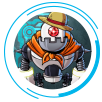
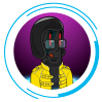
change collection images

diff --git a/src/views/LandingPage.js b/src/views/LandingPage.js
@@ -122,10 +122,10 @@ const LandingPage = () => {
         <Layout className="landing-page min-w-minMobileWidth">
             <Header className="bg-transparent z-30">
                 <Row className="h-full">
-                    <Col xs={20}></Col>
+                    <Col xs={18}></Col>
                     <Col
                         xs={24}
-                        md={4}
+                        md={6}
                         className="flex justify-center md:justify-end items-center"
                     >
                         <Button
@@ -165,6 +165,20 @@ const LandingPage = () => {
                                 color="#1BC09B"
                             />
                         </Button>
+                        <div>
+
+                        <button
+                            className="text-white text-2xl border border-white px-3 py-1 rounded-lg"
+                            onClick={() =>
+                                windowOpen(
+                                    'https://twitter.com/TheWanderersNFT'
+                                )
+                            }
+                            // type="dasheds"
+                        >
+                            White Paper
+                        </button>
+                        </div>
                     </Col>
                 </Row>
             </Header>
@@ -346,8 +360,8 @@ const LandingPage = () => {
                                         <img
                                             className="w-auto h-full object-contain overflow-hidden mx-auto relative"
                                             style={{ bottom: '-3px' }}
-                                            src={utilitiesImages.nft}
-                                            alt={utilitiesImages.nft}
+                                            src={utilitiesImages.nft1wb}
+                                            alt={utilitiesImages.nft1wb}
                                         />
                                     </div>
                                 </div>
@@ -937,7 +951,7 @@ const LandingPage = () => {
                                     </div>
                                     <div>
                                         <Article
-                                            header="Amelie Miller"
+                                            header="Riot Mei"
                                             headerProps={{
                                                 className:
                                                     'mt-8 pl-6 leading-none text-primary',

diff --git a/src/components/Collection/CollectionSection.js b/src/components/Collection/CollectionSection.js
@@ -79,19 +79,19 @@ const CollectionSection = () => {
                             <CollectionContainer>
                                 <CollectionCard
                                     size={heightContainerCollection}
-                                    src={utilitiesImages.nft1}
-                                />
-                                <CollectionCard
-                                    size={heightContainerCollection}
-                                    src={utilitiesImages.nft3}
-                                />
-                                <CollectionCard
-                                    size={heightContainerCollection}
-                                    src={utilitiesImages.nft3}
-                                />
-                                <CollectionCard
-                                    size={heightContainerCollection}
                                     src={utilitiesImages.nft7}
+                                />
+                                <CollectionCard
+                                    size={heightContainerCollection}
+                                    src={utilitiesImages.nft3}
+                                />
+                                <CollectionCard
+                                    size={heightContainerCollection}
+                                    src={utilitiesImages.nft8}
+                                />
+                                <CollectionCard
+                                    size={heightContainerCollection}
+                                    src={utilitiesImages.nft2}
                                 />
                             </CollectionContainer>
                         </motion.div>
@@ -122,11 +122,11 @@ const CollectionSection = () => {
                                 />
                                 <CollectionCard
                                     size={heightContainerCollection}
-                                    src={utilitiesImages.nft4}
+                                    src={utilitiesImages.nft1}
                                 />
                                 <CollectionCard
                                     size={heightContainerCollection}
-                                    src={utilitiesImages.nft8}
+                                    src={utilitiesImages.nft4}
                                 />
                             </CollectionContainer>
                         </motion.div>

diff --git a/src/assets/images/utilities/index.js b/src/assets/images/utilities/index.js
@@ -1,20 +1,21 @@
 import card from './tarjeta.png'
-import nft from './nfts/nft-personaje.png'
-import nft1 from './nfts/humanoide2.jpeg'
-import nft2 from './nfts/humanoide.jpeg'
-import nft3 from './nfts/255.png'
-import nft4 from './nfts/30.png'
-import nft5 from './nfts/musculos.jpeg'
-import nft6 from './nfts/robot.png'
-import nft7 from './nfts/1075.png'
-import nft8 from './nfts/mona.png'
+import nft from './nfts/1.jpg'
+import nft1 from './nfts/238.png'
+import nft2 from './nfts/400.png'
+import nft3 from './nfts/260.png'
+import nft4 from './nfts/2045.jpg'
+import nft5 from './nfts/8706.jpg'
+import nft6 from './nfts/8001.png'
+import nft7 from './nfts/17.png'
+import nft8 from './nfts/3578.png'
 import nft9 from './nfts/1112.jpeg'
+import nft1wb from './nfts/nobackgroundnnft.png'
 import isla from './isla.png'
 import island from './piedras-fondo.gif'
 import wttCoin from './wtt-coin.png'
 import alex from '../team/mar-alexis.png'
-import kame from '../team/mar-amelie.png'
-import amelie from '../team/mar-kame.png'
+import amelie from '../team/mar-amelie.png'
+import kame from '../team/mar-kame.png'
 import skullman from '../team/mar-skullman.png'
 import surtek from '../team/mar-surtek.png'
 import dr from '../team/mar-dr.png'
@@ -40,6 +41,7 @@ const utilitiesImages = {
     skullman,
     surtek,
     dr,
+    nft1wb
 }
 
 export default utilitiesImages
